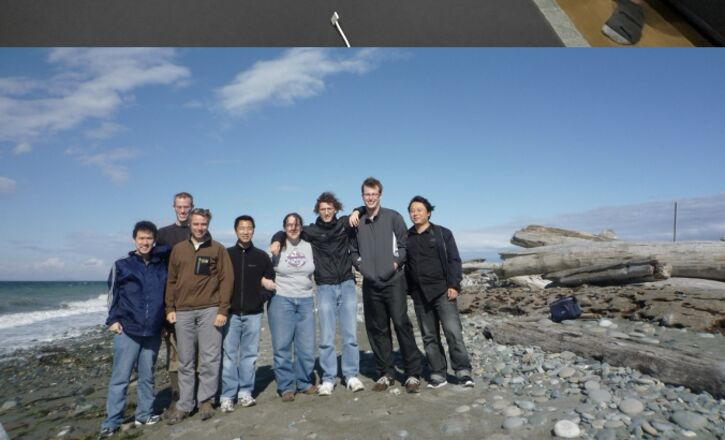
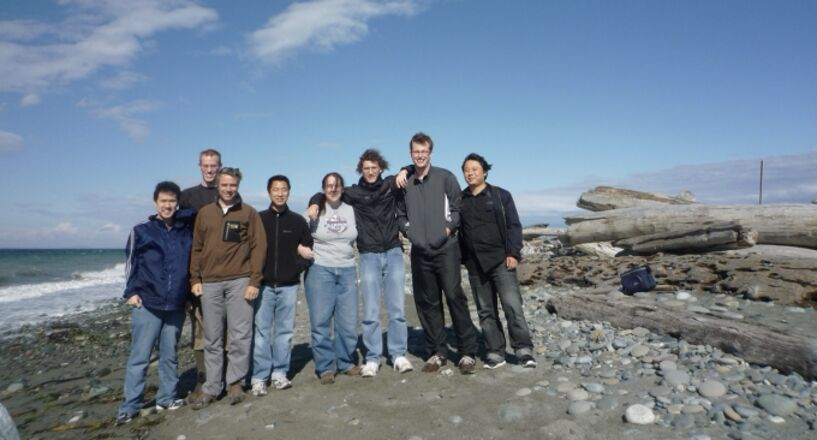
Fix bleed in the outing photos and drop the strip's heading
The tiles were sliced at equal thirds, but the source collage isn't an equal
grid. Measuring brightness discontinuities down the image puts the real row
boundaries at y=502 and y=886, not 438 and 876, which is why several photos
carried a slice of the one above them. Columns were nearly correct at 689 and
1383. Re-cut on the measured boundaries, plus an individual trim for the two
tiles that still showed an edge.

Also remove the "Lab Outings" heading; the strip reads better unlabelled.
With no heading to name it, the container gets an aria-label so it is still
announced to screen readers.

Claude-Session: https://claude.ai/code/session_01UfsSJg86ioMCLZCgTvKDYD

diff --git a/team/index.md b/team/index.md
@@ -50,11 +50,9 @@ nav:
 {% assign outings = site.static_files | where_exp: "file", "file.path contains '/images/outings/'" | sort: "path" %}
 {% if outings.size > 0 %}
 
-## Lab Outings
-
 {% include section.html size="full" %}
 
-<div class="outings">
+<div class="outings" role="group" aria-label="Photos from lab outings and retreats">
   <div class="outings-track">
     {% for photo in outings %}
       <img src="{{ photo.path | relative_url }}" alt="Lab outing" loading="lazy">
